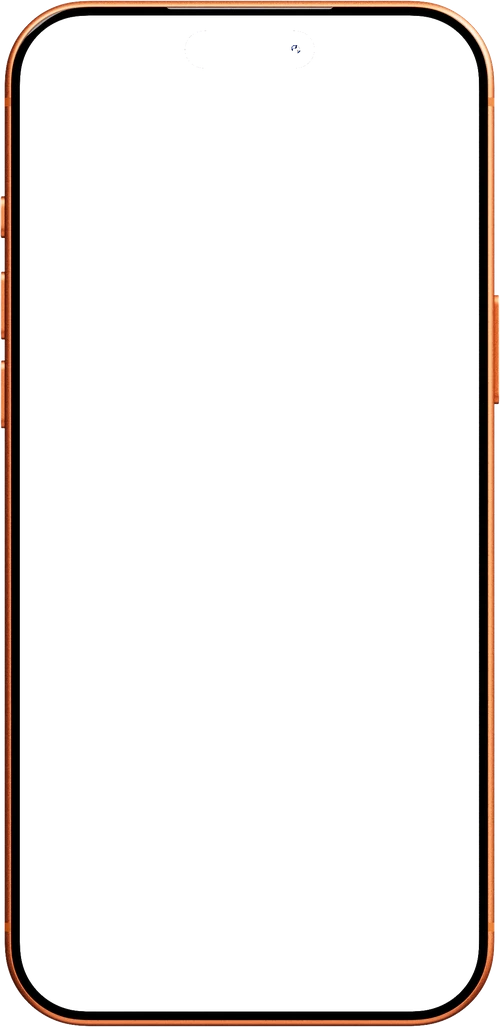
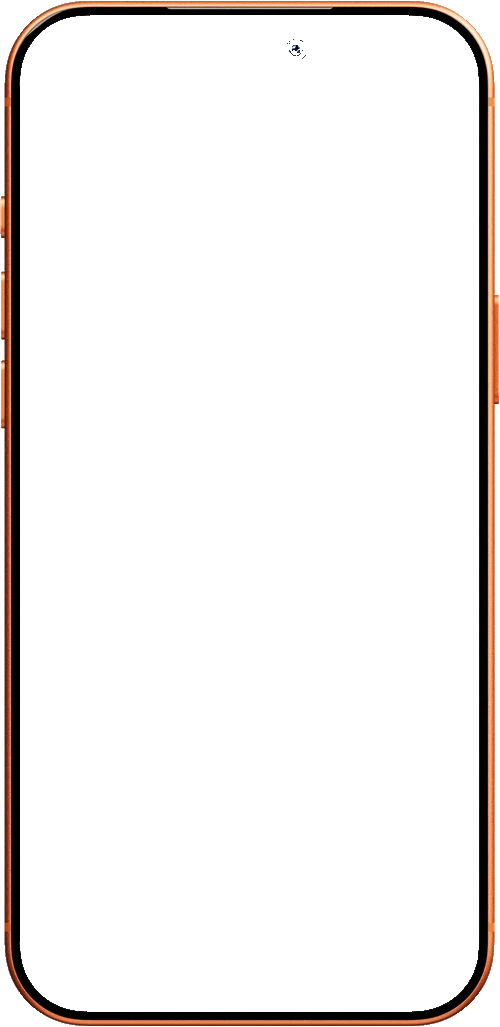
Re-extract iPhone frame with hard-edged alpha, remove inset hack
LANCZOS resize + alpha threshold (0 or 255) eliminates anti-aliased
semi-transparent pixels at the screen cutout edge. The frame itself
now acts as a perfect binary mask — clipPath matches the exact screen
boundary with no safety margin needed. Corner radius updated to match
the actual inner bezel curve measured via flood-fill analysis.

Changed region(s): [[0.15, 0.9971, 0.87, 1.0], [0.99, 0.2804, 1.0, 0.4051], [0.57, 0.0312, 0.6, 0.0623]]

diff --git a/src/components/ui/PhoneMockup.tsx b/src/components/ui/PhoneMockup.tsx
@@ -38,11 +38,12 @@ const projectSlides: ProjectSlide[] = [
 ];
 
 /* All coordinates in SVG viewBox space (500×1027).
-   Measured from PSD alpha channel analysis — pixel-perfect match.
-   SCREEN = glass area (inside black inner bezel), not outer bezel edge. */
+   Measured from PSD alpha channel flood-fill analysis.
+   Frame uses hard-edged alpha (0 or 255) — no anti-aliased bleed zone.
+   SCREEN = exact transparent screen interior boundary. */
 const VB = { w: 500, h: 1027 };
-const SCREEN = { x: 23, y: 22, w: 453, h: 983 };
-const CORNER_R = 14;
+const SCREEN = { x: 20, y: 15, w: 459, h: 997 };
+const CORNER_R = 55;
 
 /* Dynamic Island overlay — extracted from PSD with camera/sensor detail */
 const DI = { x: 184, y: 30, w: 130, h: 39 };
